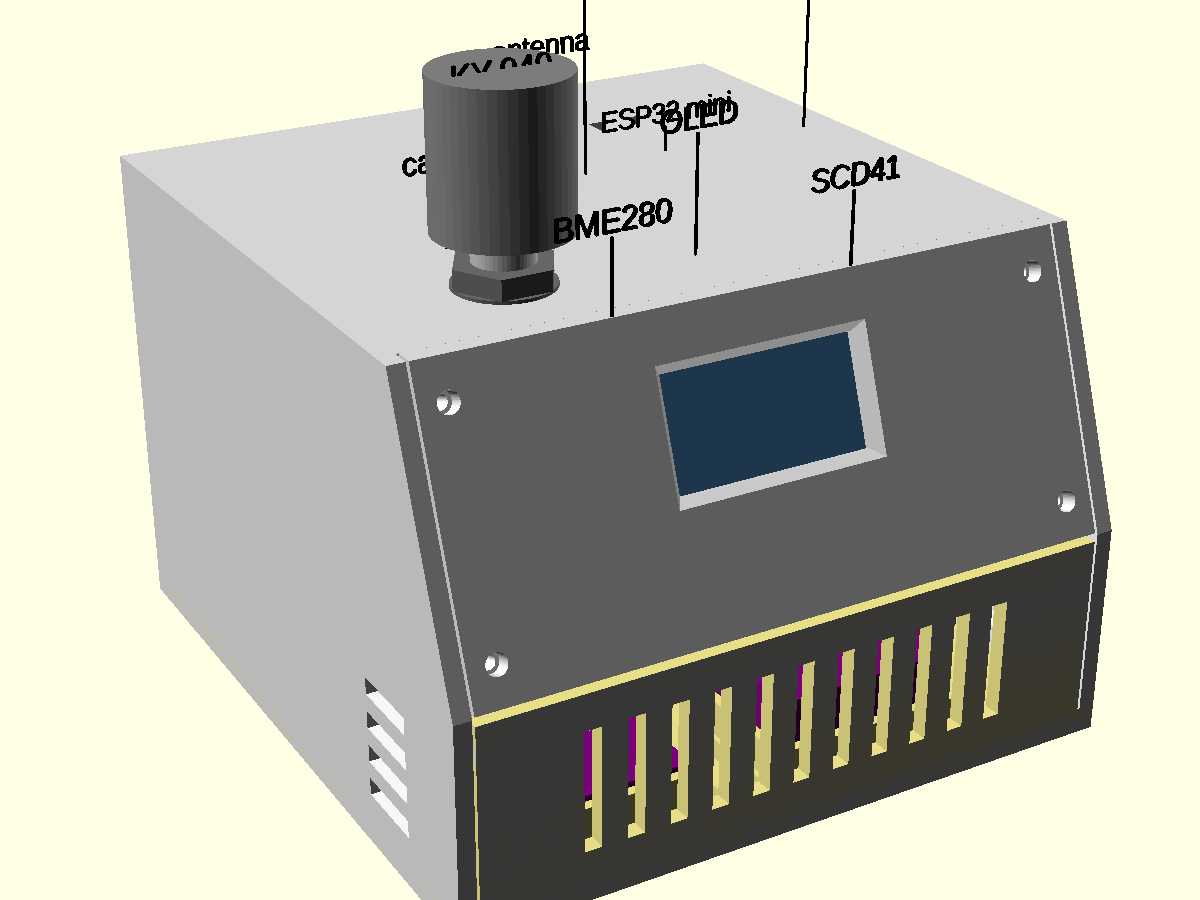
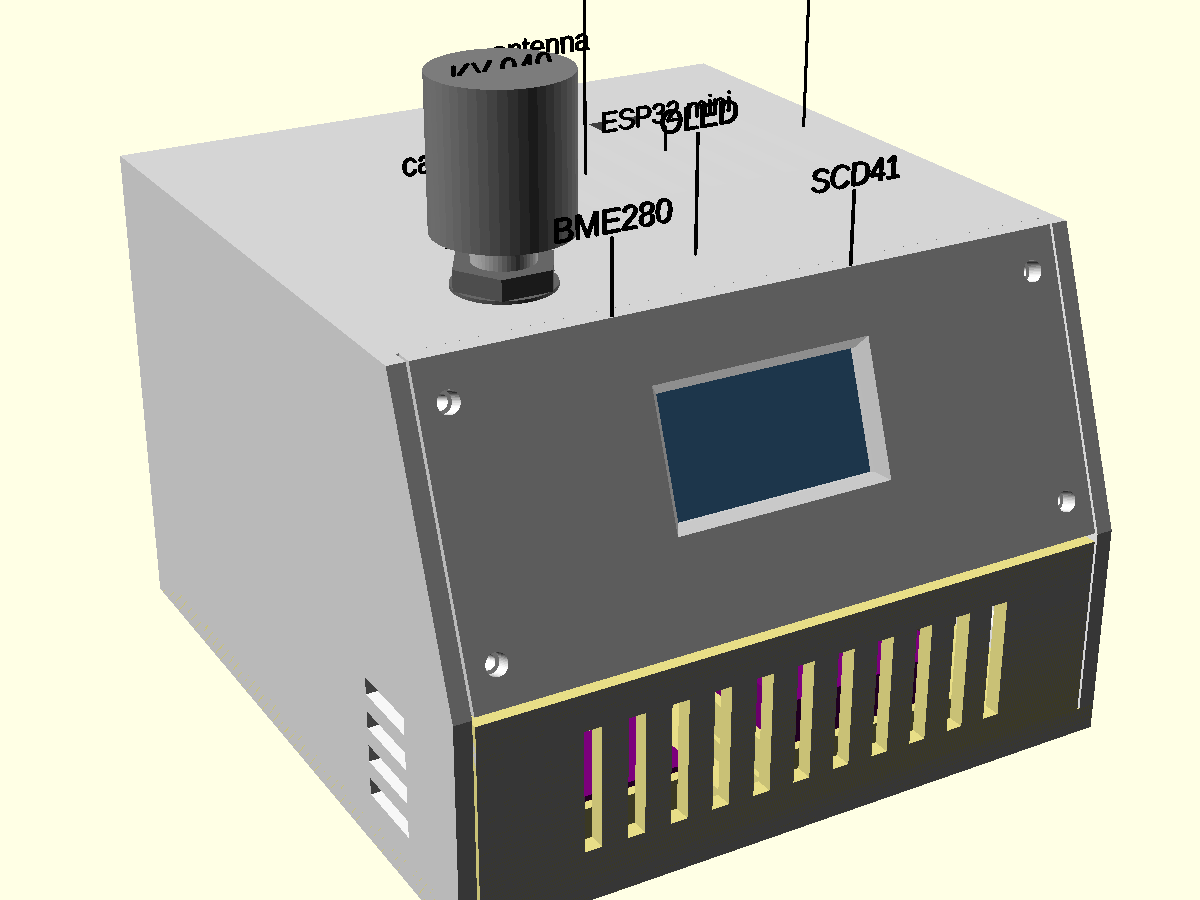
Enclosure: OLED window on the measured glow (5.27 from the pin edge, 1 mm margin)
Claude-Session: https://claude.ai/code/session_01AMC77idQFHjCegsXhLeCCT

Changed region(s): [[0.5242, 0.3422, 0.74, 0.4978], [0.555, 0.4978, 0.74, 0.5911]]

diff --git a/enclosure/reprint.html b/enclosure/reprint.html
@@ -150,13 +150,13 @@ svg.big { max-width: 520px; margin: 8px 0 16px; }
     <label><input type="checkbox"><span><span class="who">You</span><b>4. Into the OLED's Homebox entry</b></span></label>
     <p class="how">A, B and the free corners. <b>Done 2026-10-25</b> (via the API): "Lit area" rewritten, new field "Back: room round the holes".</p>
   </li>
-  <li>
+  <li data-done>
     <label><input type="checkbox"><span><span class="who">Claude</span><b>5. Move the window</b></span></label>
-    <p class="how"><code>oled_lit_top</code> = 5.27, height 10.83. The measurements are rough: window 1 mm bigger than the glow on every side (was 0.5), so ±1 still shows the whole picture.</p>
+    <p class="how"><code>oled_lit_top</code> = 5.27, height 10.83. The measurements are rough: window 1 mm bigger than the glow on every side (was 0.5), so ±1 still shows the whole picture. <b>Done:</b> window centred on the measured glow (~2 mm away from the pin edge, 0.3 left), clash check OK.</p>
   </li>
   <li>
-    <label><input type="checkbox"><span><span class="who">Claude</span><b>6. Clamps on the 4 corners only</b></span></label>
-    <p class="how">Relieved over the SMD band.</p>
+    <label><input type="checkbox"><span><span class="who">Claude</span><b>6. Screw the OLED on (like mukklet), no clamps</b></span></label>
+    <p class="how">Posts on the plate at the 4 holes, screws from the back. Needs: room on the front between the top holes and the glass; screw head vs the flex at the bottom holes (0.77).</p>
   </li>
   <li>
     <label><input type="checkbox"><span><span class="who">Claude</span><b>7. <code>export.sh</code></b></span></label>
